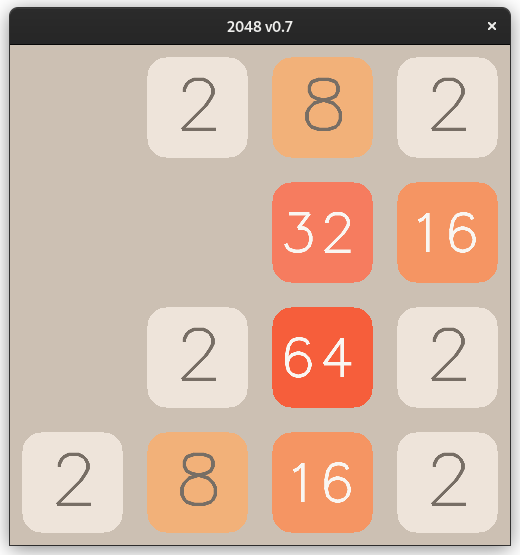
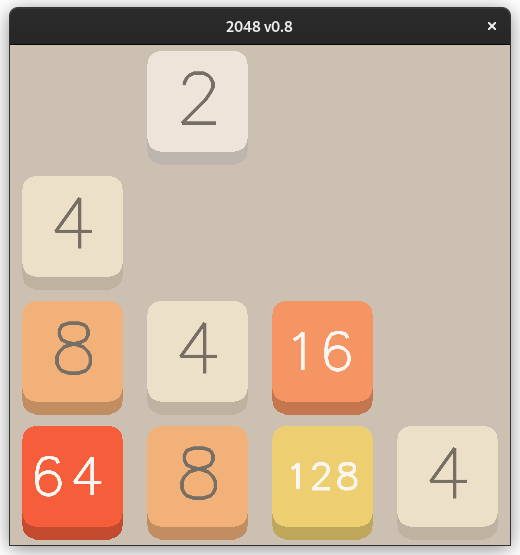
Added pseudo 3D objects
looks cool i gues

diff --git a/2048.c b/2048.c
@@ -137,13 +137,13 @@ void display() {
                     b = 0;
                     break;
             }
-
-            glColor3f(r/255.0, g/255.0, b/255.0);
             //glRectf((j + 0.1) / N, (i + 0.1) / N, (j + 0.9) / N, (i + 0.9) / N);
             
             if (menu) {
                 //start screen background
-                glColor3f(238./255., 228./255., 218./255.);
+                glColor3f(204.0/255.0/1.125, 192.0/255.0/1.125, 179.0/255.0/1.125);
+                renderRoundedRectangle(0.1, 0.275, 0.8, 0.4, 0.15 / N);
+                glColor3f(238.0/255.0, 228.0/255.0, 218.0/255.0);
                 renderRoundedRectangle(0.1, 0.3, 0.8, 0.4, 0.15 / N);
                 
                 //text color
@@ -152,7 +152,7 @@ void display() {
                 int len;
                 
                 glLineWidth(4.0);
-                sprintf(str, "2048 v0.7");
+                sprintf(str, "2048 v0.8");
                 glPushMatrix();
                 glTranslatef(0.1+0.15, 0.3+0.25, 0);
                 glScalef(0.0005, 0.0005, 0);
@@ -182,7 +182,10 @@ void display() {
                 glPopMatrix();*/
             } else if (!menu) {
                 glLineWidth(4.0);
-                renderRoundedRectangle((j + 0.1) / N, (i + 0.1) / N, 0.8 / N, 0.8 / N, 0.15 / N);
+                glColor3f(r/255.0/1.25, g/255.0/1.25, b/255.0/1.25);
+                renderRoundedRectangle((j + 0.1) / N, (i + 0.1) / N-0.0125, 0.8 / N, 0.8 / N, 0.1 / N);
+                glColor3f(r/255.0, g/255.0, b/255.0);
+                renderRoundedRectangle((j + 0.1) / N, (i + 0.1) / N+0.0125, 0.8 / N, 0.8 / N, 0.1 / N);
                 
                 // set the color of the text
                 if (value < 9) {
@@ -197,14 +200,14 @@ void display() {
                 glPushMatrix();
                 //glTranslatef((j + 0.3) / N, (i + 0.325) / N, 0);
                 if (value < 10) {
-                    glTranslatef((j + 0.3) / N, (i + 0.325) / N, 0);
+                    glTranslatef((j + 0.3) / N, (i + 0.325) / N+0.0125, 0);
                     glScalef(0.001, 0.001, 0);
                 } else if (value > 9 && value < 100) {
-                    glTranslatef((j + 0.15) / N, (i + 0.35) / N, 0);
+                    glTranslatef((j + 0.15) / N, (i + 0.35) / N+0.0125, 0);
                     glScalef(0.00075, 0.00075, 0);
                 }
                 else if (value > 99 && value < 1000){
-                    glTranslatef((j + 0.175) / N, (i + 0.4) / N, 0);
+                    glTranslatef((j + 0.175) / N, (i + 0.4) / N+0.0125, 0);
                     glScalef(0.0005, 0.0005, 0);
                 }
                 else {
@@ -396,12 +399,15 @@ void keyboard(unsigned char key, int x, int y) {
         case 'r':
             if(!menu) {init();}
             break;
+        case 'm':
+            menu = true;
+            break;
         case 'x':
             menu = false;
             break;
-        /*case 'q':
+        case 'q':
             exit(0);
-            break;*/
+            break;
     }
     if (!moved) {
         int i, j;
@@ -430,7 +436,7 @@ int main(int argc, char** argv) {
     glutInit(&argc, argv);
     glutInitDisplayMode(GLUT_SINGLE | GLUT_RGB);
     glutInitWindowSize(500, 500);
-    glutCreateWindow("2048 v0.7");
+    glutCreateWindow("2048 v0.8");
     glClearColor(204./255., 192./255., 179./255., 1.0);
     glMatrixMode(GL_PROJECTION);
     glLoadIdentity();
